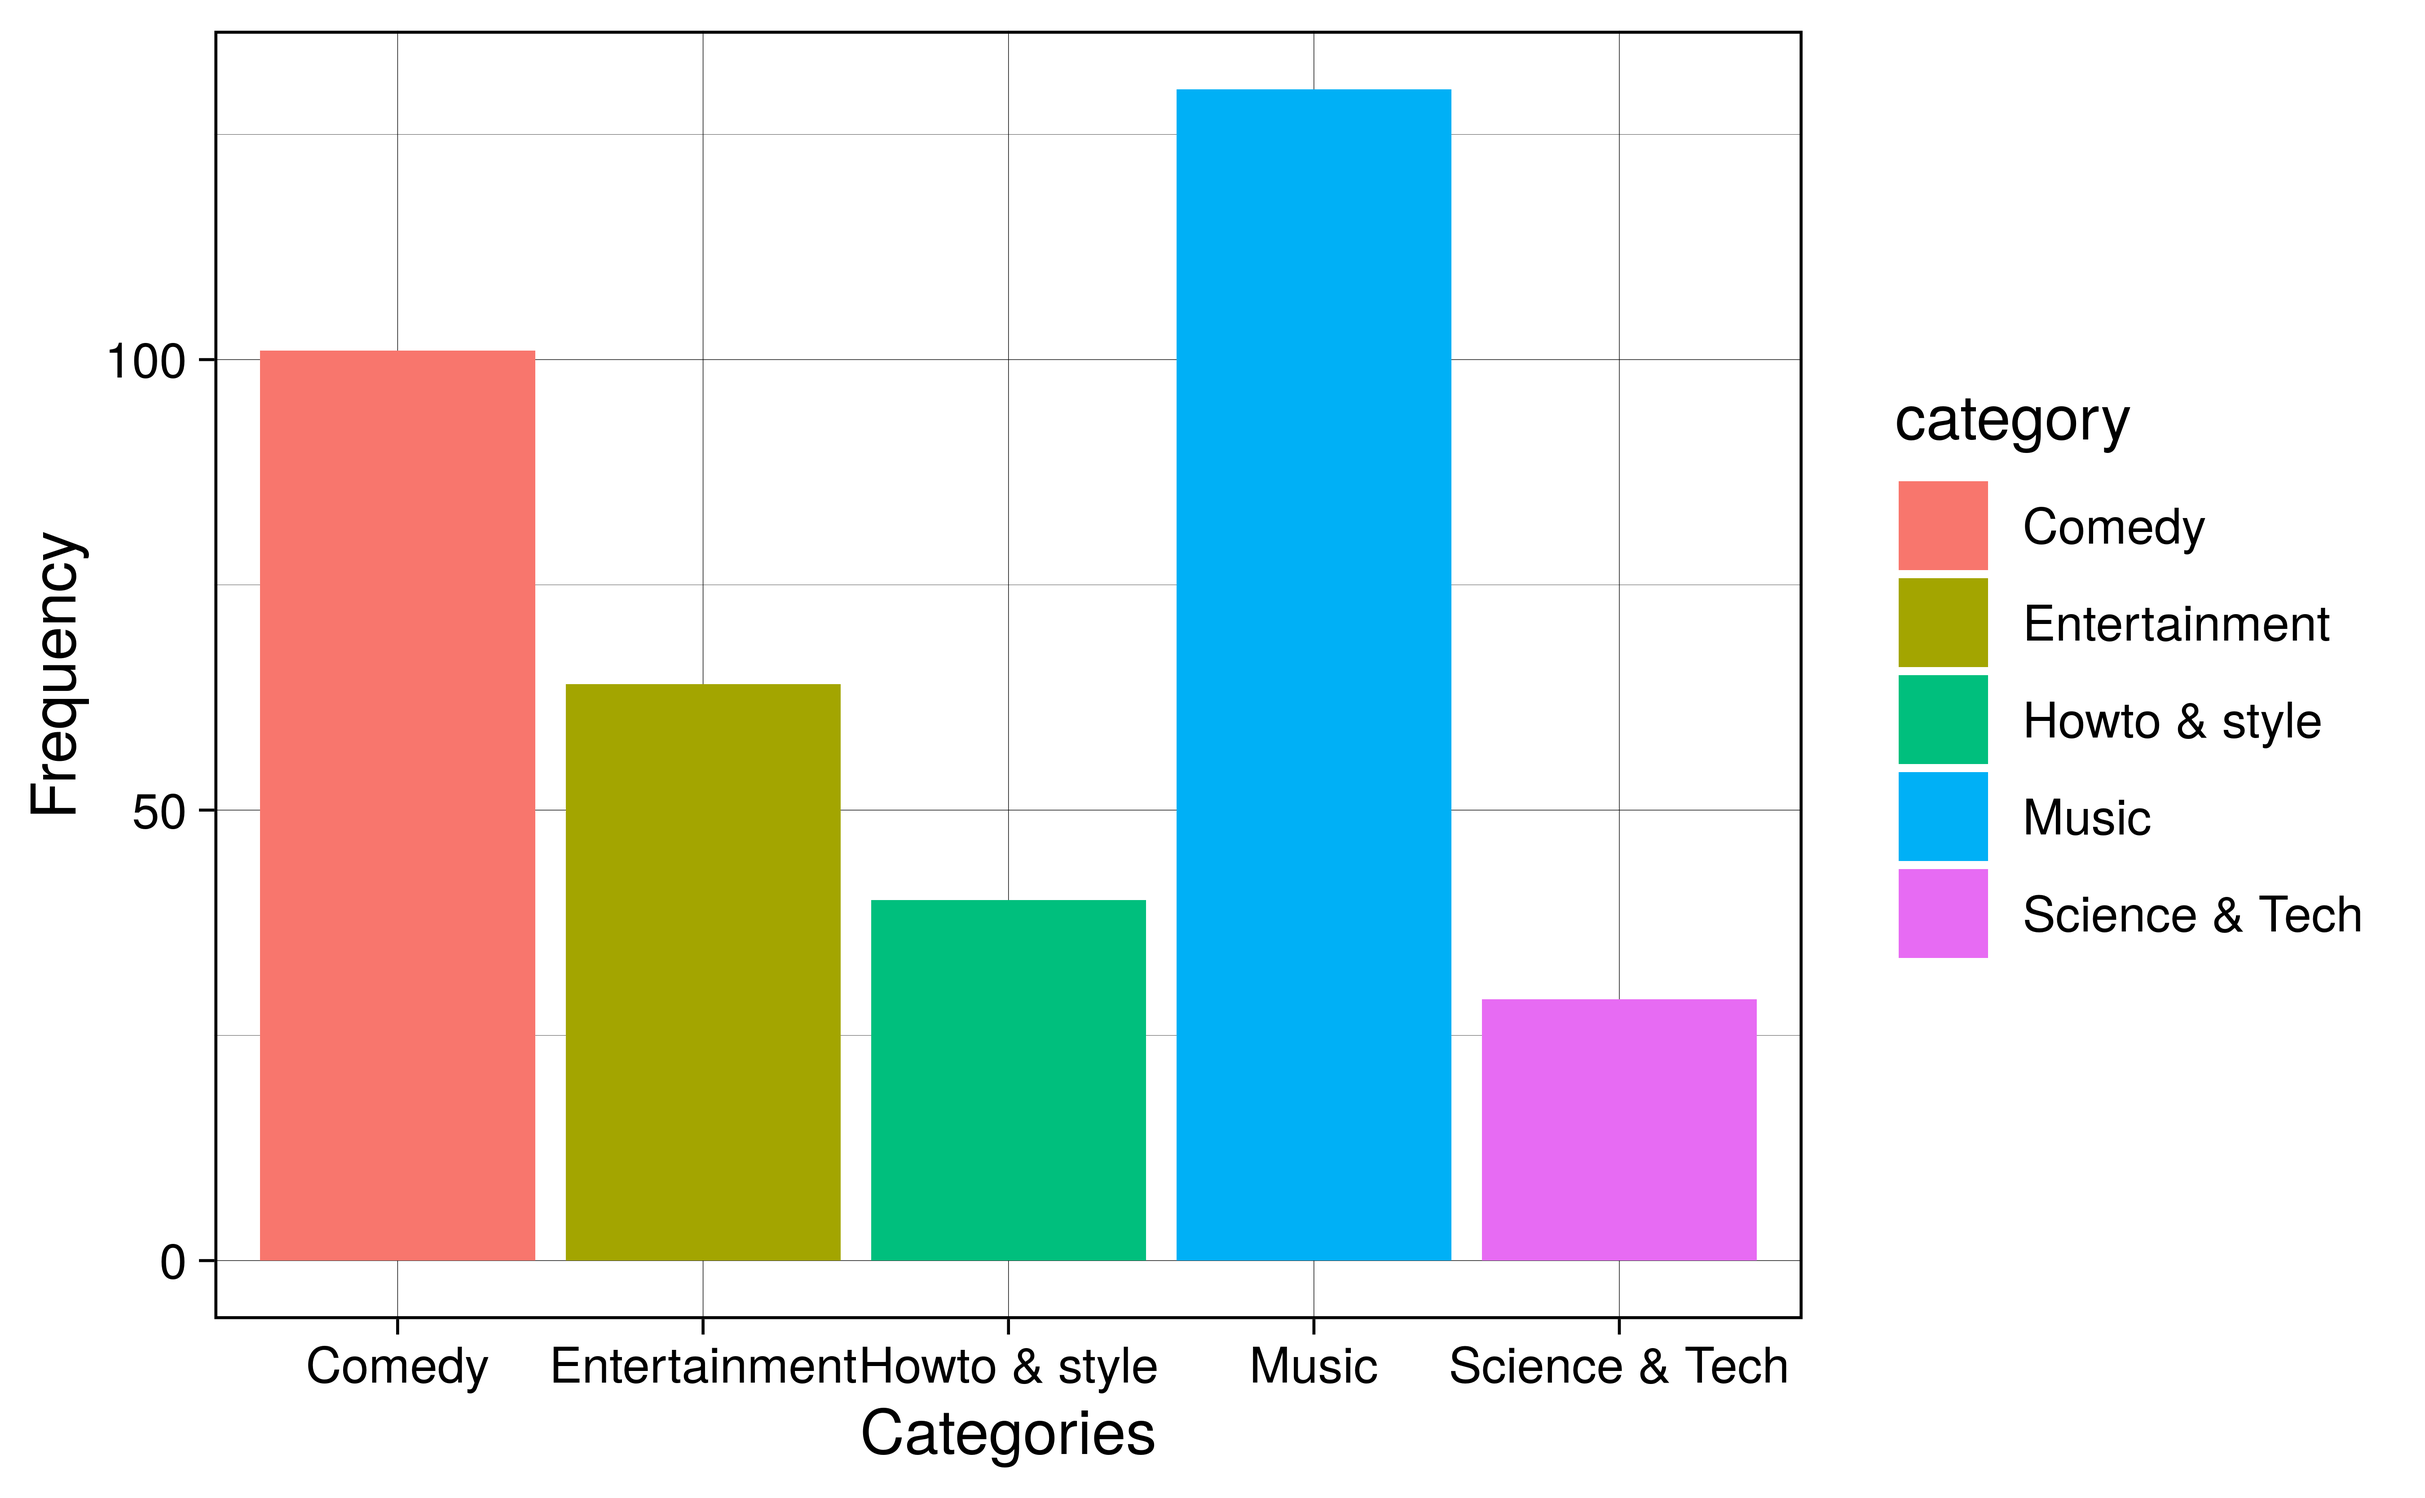
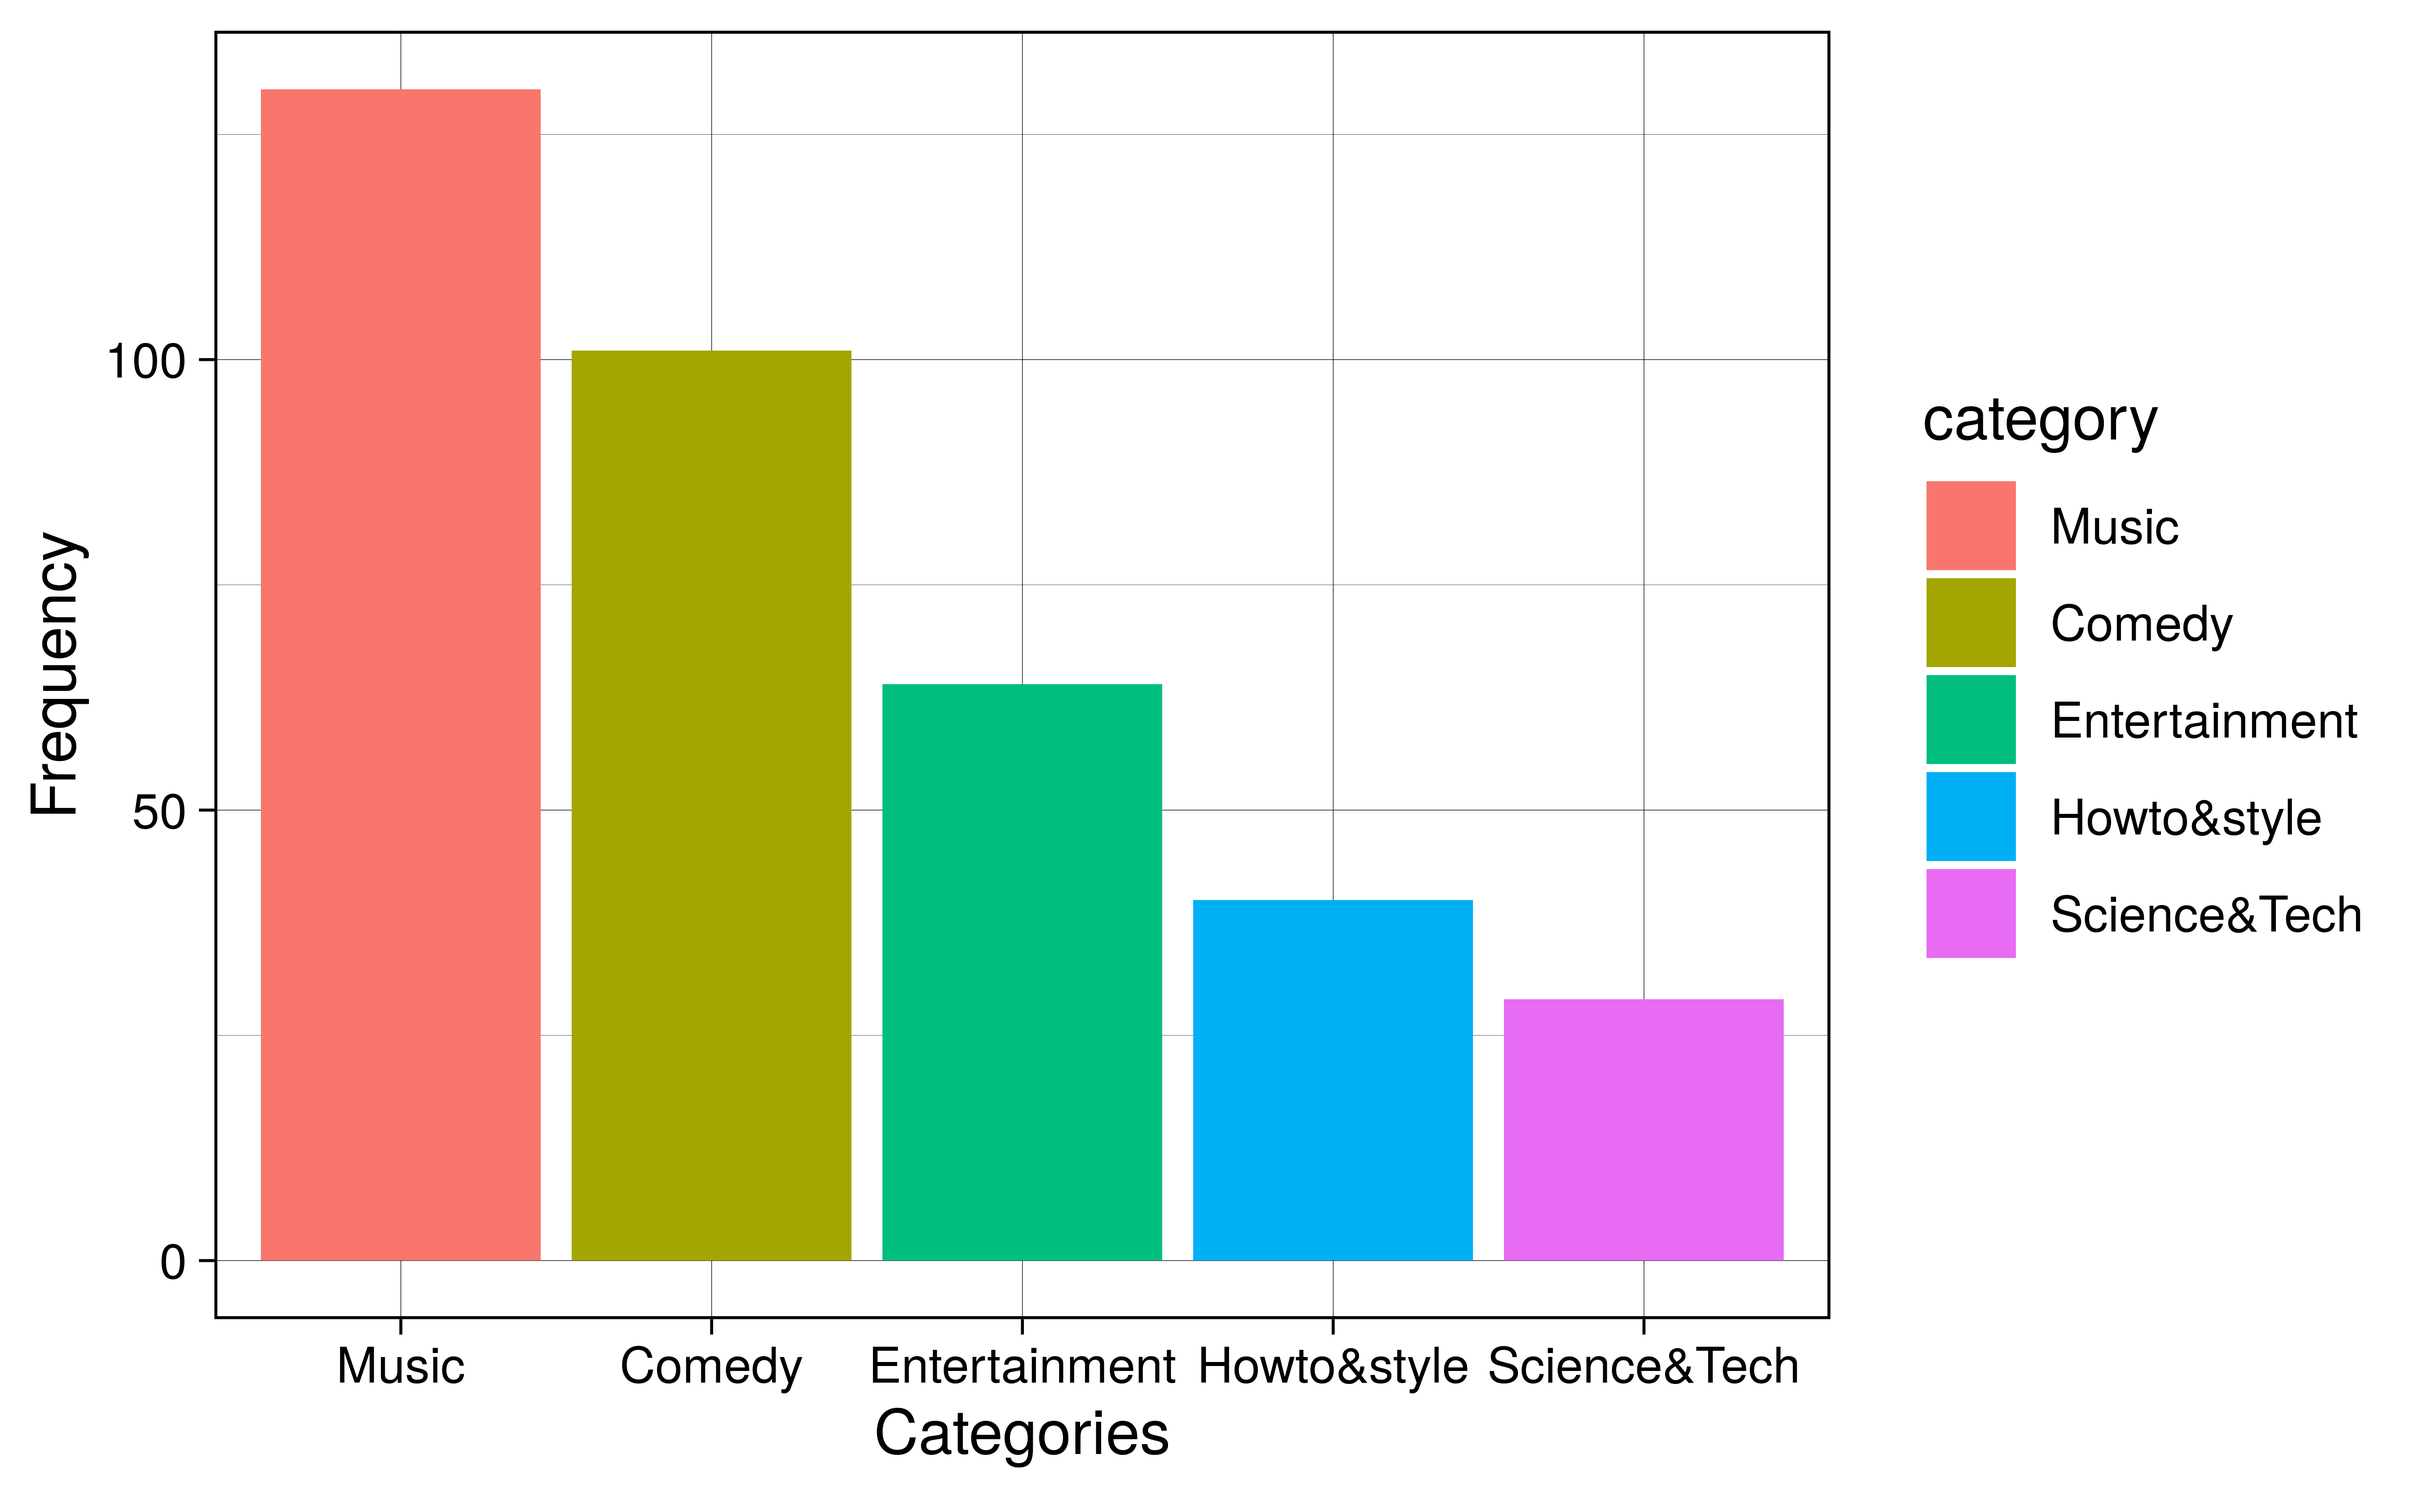
Formats of slides

diff --git a/presentation/presentation.html b/presentation/presentation.html
@@ -1,7 +1,7 @@
 <!DOCTYPE html>
 <html lang="" xml:lang="">
   <head>
-    <title>Youtube</title>
+    <title>YouTube</title>
     <meta charset="utf-8" />
     <meta name="author" content="Infinite   Alicia, Lucas, Lucia" />
     <meta name="date" content="2020-12-03" />
@@ -13,7 +13,7 @@
     <textarea id="source">
 class: center, middle, inverse, title-slide
 
-# Youtube
+# YouTube
 ### Infinite <br> Alicia, Lucas, Lucia
 ### University of Edinburgh
 ### 2020-12-03
@@ -31,14 +31,14 @@ class: center, middle, inverse, title-slide
 
 class: center, middle, inverse
 
-# What makes a Youtube video popular?
+# What makes a YouTube video popular?
 
 ---
 
 
 # Introduction to USvideos
 
-- Collected via Youtube API(Application Programming Interface)
+- Collected via YouTube API(Application Programming Interface)
 
 - Consists of 4998 rows, 13 variables
 
@@ -50,7 +50,7 @@ class: center, middle, inverse
 
 # Variables Used
 
-- title, Name of the Youtube video
+- title, Name of the YouTube video
 
 - category_id, Which category does the video fall under
 
@@ -74,9 +74,7 @@ class: inverse, middle, center
 
 # Data Cleaning
 
-- We had duplicate Youtube videos in separate rows so we merged the duplicate rows into one single row and also combined the views, likes and comments together.
-
-- This allows for us to rank the with accuracy because it adds up the total of the duplicate rows and gives us total values. 
+- We had duplicate YouTube videos in separate rows so we merged the duplicate rows into one single row and also combined the views, likes and comments together. This allows for us to rank the videos with accuracy. 
 
 
 
@@ -112,7 +110,7 @@ class: inverse, middle, center
 
 ---
 
-# Common categories in the top-500 videos
+# Popular categories in the top-500-views videos
 
 
 
@@ -121,7 +119,7 @@ class: inverse, middle, center
 
 ---
 
-# What time did the top 500 Youtube videos upload?
+# What time did the top-500-views Youtube videos upload?
 
 
 
@@ -161,7 +159,7 @@ class: inverse, middle, center
 
 ---
 
-# Frequency of different type of videos uploaded
+# Views that each category recives, at different time
 
 
 
